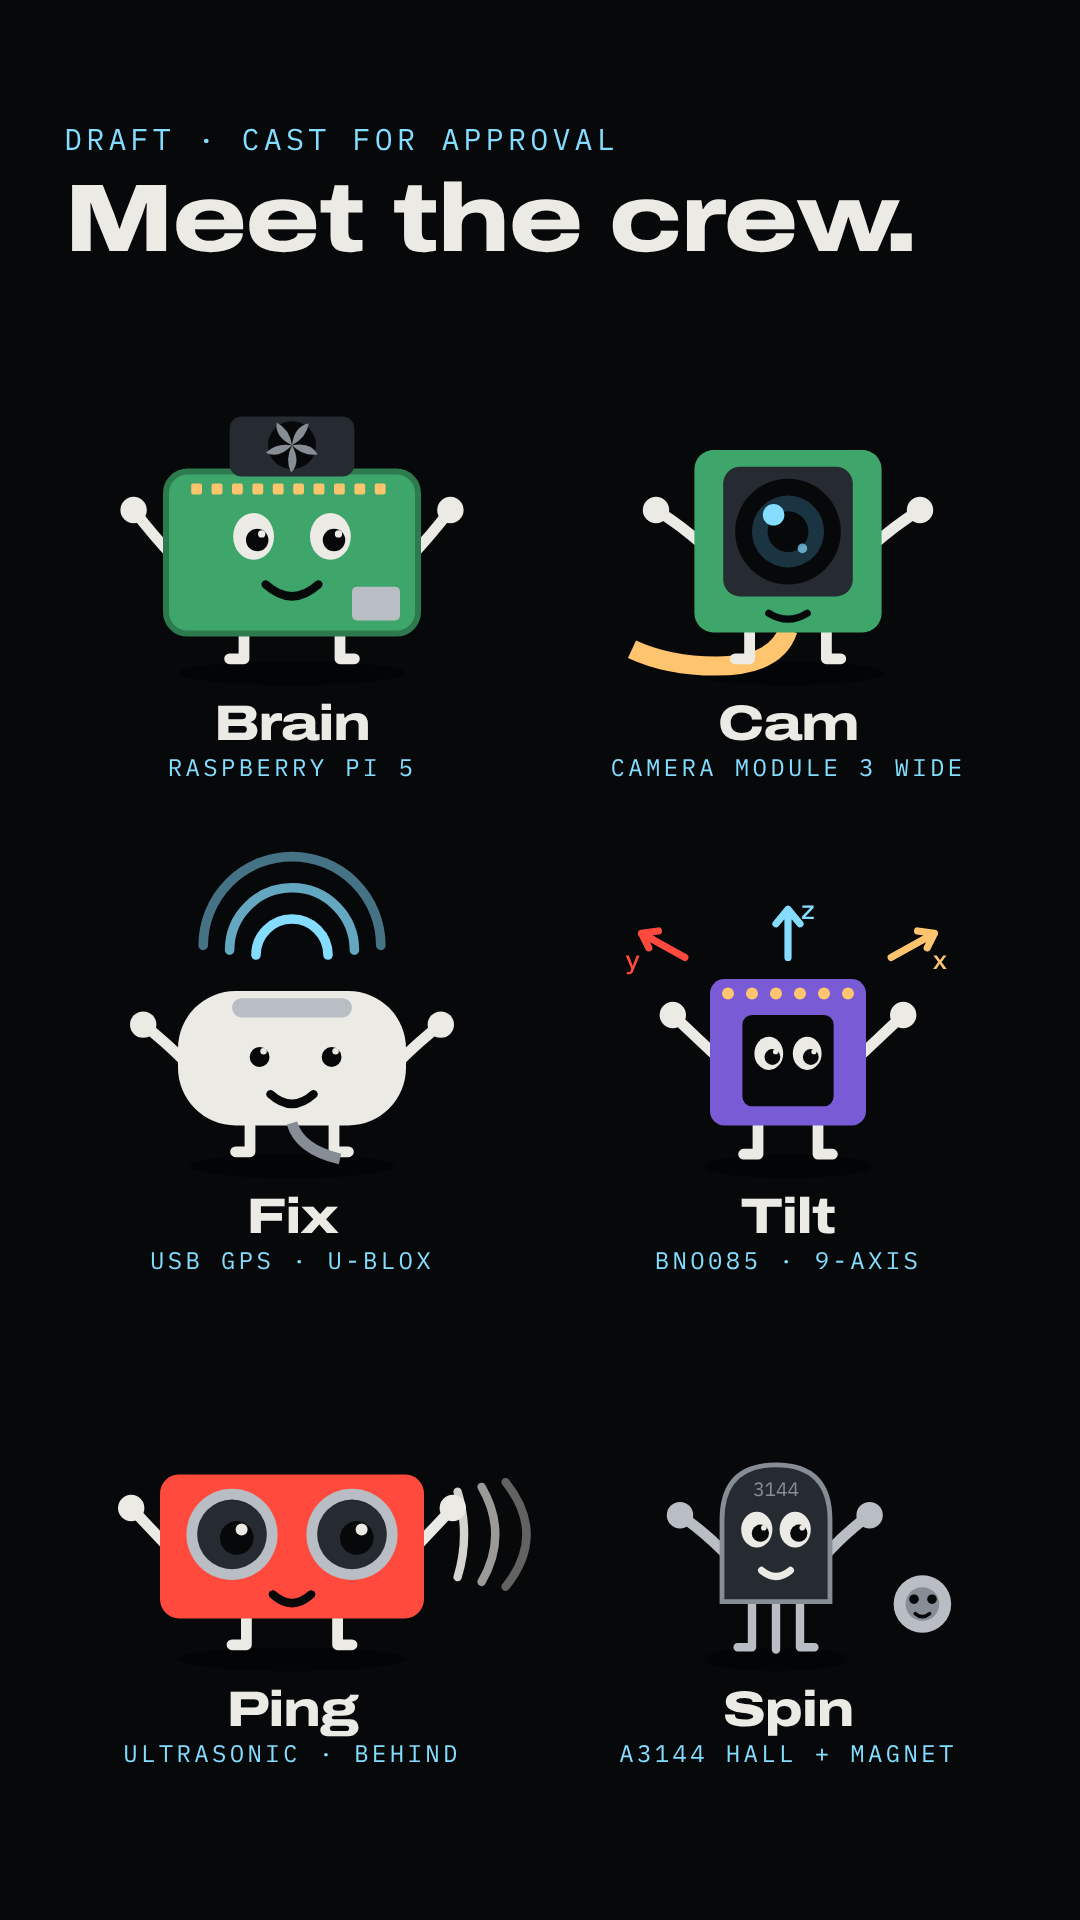
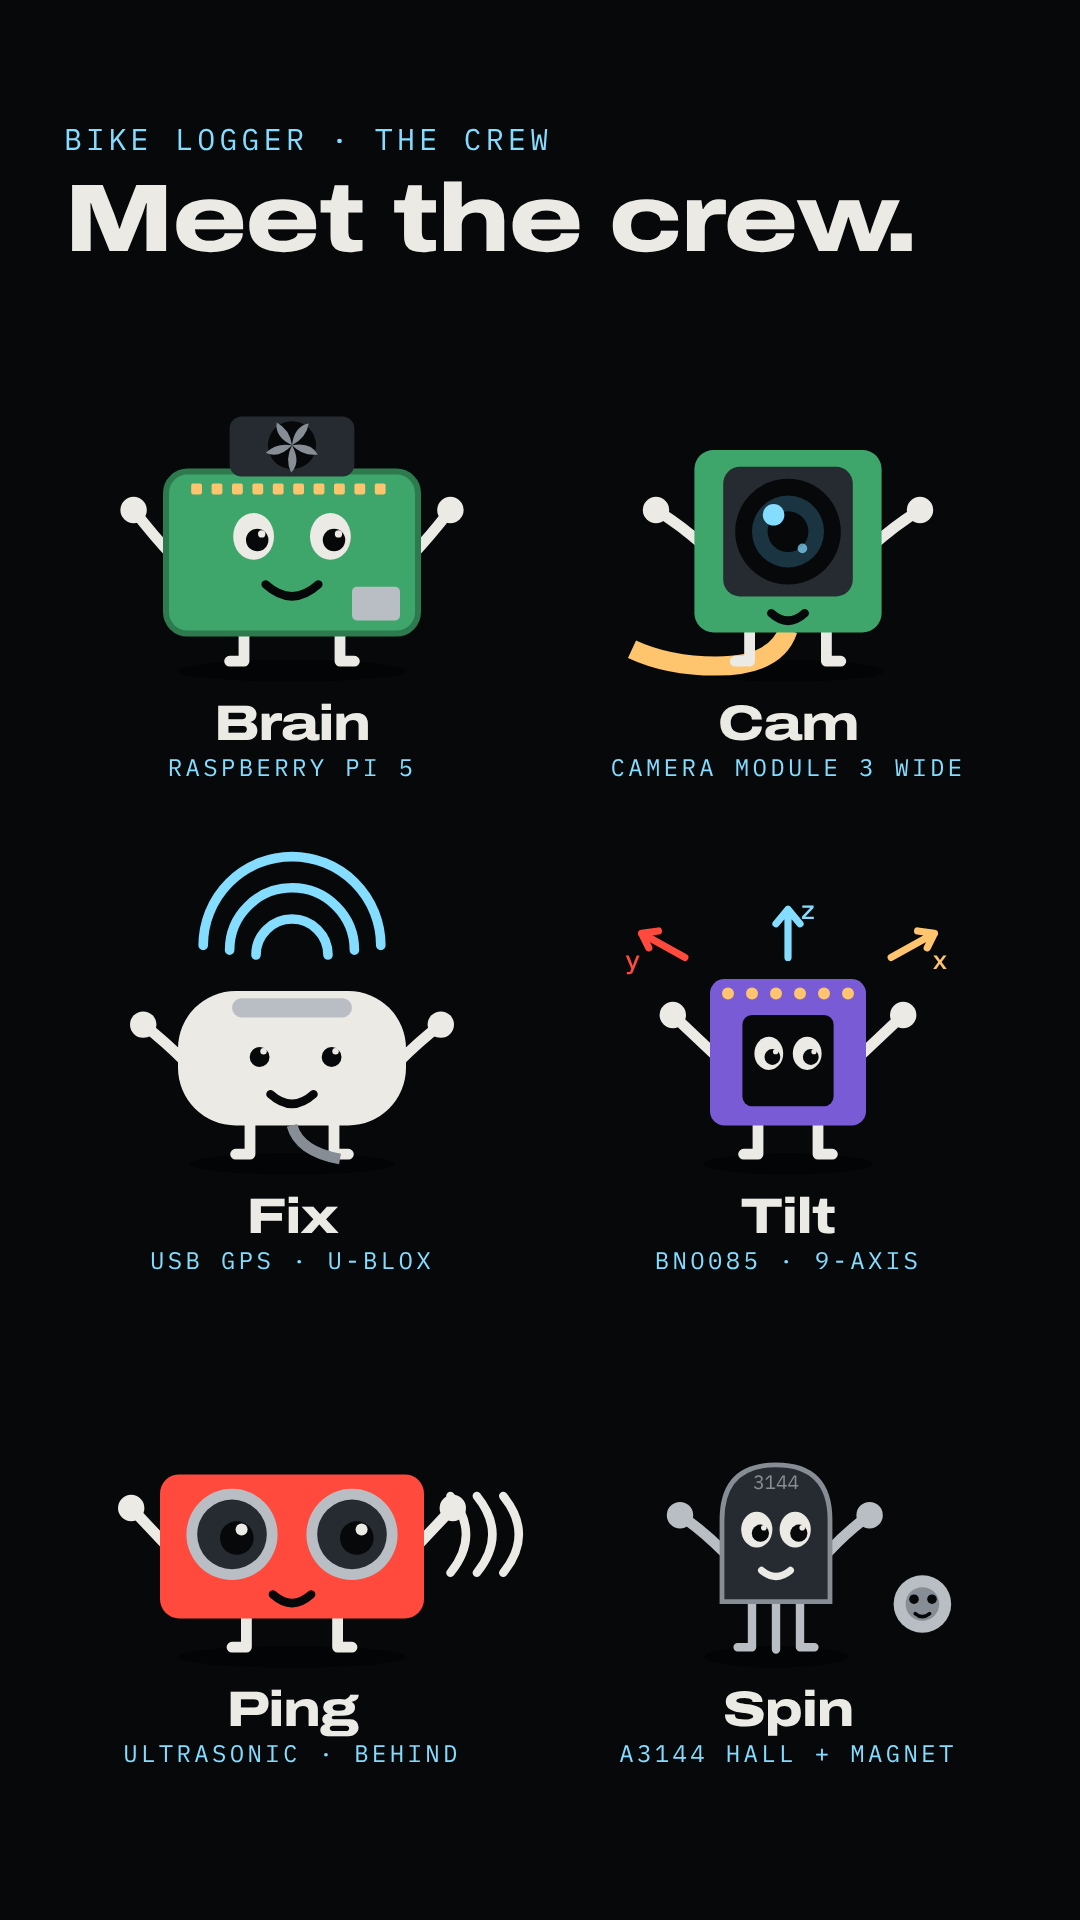
Bike Logger crew: move to brand assets, add adult cartoon style and its cast sheet
Claude-Session: https://claude.ai/code/session_01TJ4oPZSCEeESGFnq2YH8Ck

diff --git a/brands/bike-logger/assets/cartoon/crew.js b/brands/bike-logger/assets/cartoon/crew.js
@@ -1,0 +1,144 @@
+/* Bike Logger crew: the real parts drawn as flat cartoon characters (approved 2026-11-03).
+ *
+ *   <script src="/brands/bike-logger/assets/cartoon/crew.js"></script>
+ *   el.innerHTML = Crew.pi();                    // "fun" style (round eyes, bouncy)
+ *   el.innerHTML = Crew.pi({ style: "adult" });  // grown-up cartoon: ink outlines, half-lidded eyes, muted colours
+ *
+ * Each returns an <svg viewBox="0 0 300 300"> with SvgRig part ids (#body, #eyes, #mouth-closed, #mouth-open,
+ * #arm-l, #arm-r) and extras to animate: pi #fan, cam #lens, gps #arcs (.arc), imu #axes, sonar #pings (.ping),
+ * hall #magnet #pulse, box #lid. Feet stand at y ≈ 278.
+ * Colours: brand tokens, plus PCB green and IMU purple (approved as the only off-palette colours). */
+(function () {
+  const C = { night: "#06080a", ink: "#eceae4", dim: "#868d95", line: "#262b31", lamp: "#ffc46e", signal: "#84dcff", brake: "#ff4a3d", chip: "#b9bec4" };
+  const PAL = {
+    fun:   { green: "#3fa66b", greenEdge: "#2c7a4d", purple: "#7a5bd6", red: C.brake, puck: C.ink, box: "#3a4048", boxEdge: "#4f5660" },
+    adult: { green: "#2f7552", greenEdge: "#1f5238", purple: "#57479a", red: "#d9493d", puck: "#d9d6cc", box: "#30353c", boxEdge: "#454c55" },
+  };
+
+  function kit(style) {
+    const A = style === "adult", P = PAL[A ? "adult" : "fun"];
+    const limbW = A ? 6 : 9, out = A ? `stroke="${C.ink}" stroke-width="3.5" stroke-linejoin="round"` : "";
+    const eye = (x, y, r, lid) => {
+      if (!A) return `<ellipse cx="${x}" cy="${y}" rx="${r}" ry="${r * 1.15}" fill="${C.ink}"/>` +
+        `<circle cx="${x + 3}" cy="${y + 3}" r="${r * 0.55}" fill="${C.night}"/>` +
+        `<circle cx="${x + 3 + r * 0.22}" cy="${y - r * 0.12}" r="${r * 0.18}" fill="${C.ink}"/>`;
+      // Adult: almond eye, small pupil, heavy upper lid (deadpan), brow line.
+      const rx = r * 1.05, ry = r * 0.8;
+      return `<ellipse cx="${x}" cy="${y}" rx="${rx}" ry="${ry}" fill="${C.ink}"/>` +
+        `<circle cx="${x + 2}" cy="${y + ry * 0.3}" r="${r * 0.36}" fill="${C.night}"/>` +
+        `<path d="M${x - rx - 1} ${y + 1} A${rx + 1} ${ry + 1} 0 0 1 ${x + rx + 1} ${y + 1} Z" fill="${lid}"/>` +
+        `<path d="M${x - rx} ${y + 1} H${x + rx}" stroke="${C.night}" stroke-width="3.5" stroke-linecap="round"/>` +
+        `<path d="M${x - rx} ${y - ry - 9} L${x + rx} ${y - ry - 12}" stroke="${C.night}" stroke-width="5" stroke-linecap="round"/>`;
+    };
+    const mouth = (x, y, w, col = C.night) => A
+      ? `<path id="mouth-closed" d="M${x - w * 0.7} ${y + 2} Q${x + w * 0.2} ${y + 5} ${x + w * 0.75} ${y - 3}" stroke="${col}" stroke-width="4.5" fill="none" stroke-linecap="round"/>` +
+        `<ellipse id="mouth-open" cx="${x}" cy="${y + 3}" rx="${w * 0.45}" ry="${w * 0.3}" fill="${col}"/>`
+      : `<path id="mouth-closed" d="M${x - w} ${y} Q${x} ${y + w * 0.9} ${x + w} ${y}" stroke="${col}" stroke-width="7" fill="none" stroke-linecap="round"/>` +
+        `<path id="mouth-open" d="M${x - w} ${y} Q${x} ${y + w * 1.6} ${x + w} ${y} Z" fill="${col}"/>`;
+    const arm = (id, x1, y1, x2, y2, col = C.ink) =>
+      `<g id="${id}"><path d="M${x1} ${y1} Q${(x1 + x2) / 2} ${y1 - (A ? 6 : 18)} ${x2} ${y2}" stroke="${col}" stroke-width="${limbW}" fill="none" stroke-linecap="round"/>` +
+      `<circle cx="${x2}" cy="${y2}" r="${A ? 7 : 11}" fill="${col}"/></g>`;
+    const legs = (x1, x2, y, col = C.ink) =>
+      `<path d="M${x1} ${y} v${A ? 30 : 26} h-${A ? 14 : 12} M${x2} ${y} v${A ? 30 : 26} h${A ? 14 : 12}" stroke="${col}" stroke-width="${limbW}" fill="none" stroke-linecap="round" stroke-linejoin="round"/>`;
+    const shadow = (cx, rx) => `<ellipse cx="${cx}" cy="284" rx="${rx}" ry="9" fill="#000" opacity=".5"/>`;
+    return { A, P, out, eye, mouth, arm, legs, shadow };
+  }
+  const svg = (id, inner) => `<svg class="crew" id="${id}" viewBox="0 0 300 300" overflow="visible">${inner}</svg>`;
+
+  const Crew = {
+    C,
+    // Raspberry Pi 5, active cooler worn as a hat.
+    pi({ id = "pi", style = "fun" } = {}) {
+      const { A, P, out, eye, mouth, arm, legs, shadow } = kit(style);
+      return svg(id, shadow(150, 95) + `<g id="body">` + legs(110, 190, 250) +
+        arm("arm-l", 52, 190, 18, 150) + arm("arm-r", 248, 190, 282, 150) +
+        `<rect x="45" y="118" width="210" height="135" rx="${A ? 10 : 18}" fill="${P.green}" ${out}/>` +
+        (A ? "" : `<rect x="45" y="118" width="210" height="135" rx="18" fill="none" stroke="${P.greenEdge}" stroke-width="5"/>`) +
+        Array.from({ length: 10 }, (_, i) => `<rect x="${66 + i * 17}" y="128" width="9" height="9" rx="1.5" fill="${C.lamp}"/>`).join("") +
+        `<rect x="200" y="214" width="40" height="28" rx="4" fill="${C.chip}"/>` +
+        `<rect x="98" y="72" width="104" height="50" rx="10" fill="${C.line}" ${out}/><circle cx="150" cy="96" r="20" fill="${C.night}"/>` +
+        `<g id="fan">${[0, 72, 144, 216, 288].map(a => `<path d="M150 96 q12 -6 14 -18 q-12 2 -14 18z" fill="${C.dim}" transform="rotate(${a} 150 96)"/>`).join("")}</g>` +
+        `<g id="eyes">${eye(118, 172, 17, P.green)}${eye(182, 172, 17, P.green)}</g>` + mouth(150, 212, 22) + `</g>`);
+    },
+    // Camera Module 3 Wide: the lens is its eye; ribbon cable tail.
+    cam({ id = "cam", style = "fun" } = {}) {
+      const { A, P, out, mouth, arm, legs, shadow } = kit(style);
+      return svg(id, shadow(150, 80) + `<g id="body">` +
+        `<path d="M150 250 q-10 30 -60 30 q-40 0 -70 -14" stroke="${C.lamp}" stroke-width="${A ? 12 : 16}" fill="none"/>` +
+        legs(118, 182, 250) + arm("arm-l", 80, 180, 40, 150) + arm("arm-r", 220, 180, 260, 150) +
+        `<rect x="72" y="100" width="156" height="152" rx="${A ? 8 : 16}" fill="${P.green}" ${out}/>` +
+        `<rect x="96" y="114" width="108" height="108" rx="${A ? 8 : 14}" fill="${C.line}"/>` +
+        `<g id="eyes"><circle cx="150" cy="168" r="44" fill="${C.night}"/><g id="lens"><circle cx="150" cy="168" r="30" fill="#1b3442"/>` +
+        `<circle cx="150" cy="168" r="17" fill="${C.night}"/><circle cx="138" cy="154" r="9" fill="${C.signal}"/><circle cx="162" cy="182" r="4" fill="${C.signal}" opacity=".7"/></g>` +
+        (A ? `<path d="M106 168 A44 44 0 0 1 194 168 Z" fill="${C.line}"/><path d="M106 168 H194" stroke="${C.night}" stroke-width="4"/>` : "") + `</g>` +
+        mouth(150, 236, 14) + `</g>`);
+    },
+    // USB GPS puck (u-blox), antenna up, signal arcs overhead.
+    gps({ id = "gps", style = "fun" } = {}) {
+      const { A, P, out, eye, mouth, arm, legs, shadow } = kit(style);
+      return svg(id, shadow(150, 85) + `<g id="body">` +
+        `<g id="arcs">${[30, 52, 74].map((r, i) => `<path class="arc" d="M${150 - r} ${110 - i * 4} A${r} ${r} 0 0 1 ${150 + r} ${110 - i * 4}" stroke="${C.signal}" stroke-width="${A ? 6 : 8}" fill="none" stroke-linecap="round"/>`).join("")}</g>` +
+        legs(115, 185, 250) + arm("arm-l", 62, 200, 26, 168) + arm("arm-r", 238, 200, 274, 168) +
+        `<rect x="55" y="140" width="190" height="112" rx="${A ? 36 : 48}" fill="${P.puck}" ${A ? `stroke="${C.night}" stroke-width="3.5"` : ""}/>` +
+        `<rect x="100" y="146" width="100" height="16" rx="8" fill="${C.chip}"/>` +
+        `<path d="M150 252 q6 22 40 28" stroke="${C.dim}" stroke-width="${A ? 6 : 9}" fill="none"/>` +
+        `<g id="eyes">${eye(120, 192, 15, P.puck)}${eye(180, 192, 15, P.puck)}</g>` + mouth(150, 226, 18) + `</g>`);
+    },
+    // BNO085 9-axis IMU, x/y/z arrows overhead.
+    imu({ id = "imu", style = "fun" } = {}) {
+      const { A, P, out, eye, mouth, arm, legs, shadow } = kit(style);
+      const ar = (d, col) => `<path d="${d}" stroke="${col}" stroke-width="${A ? 5 : 6}" fill="none" stroke-linecap="round" stroke-linejoin="round"/>`;
+      return svg(id, shadow(150, 70) + `<g id="body">` + legs(125, 175, 250) +
+        arm("arm-l", 92, 196, 54, 160) + arm("arm-r", 208, 196, 246, 160) +
+        `<rect x="85" y="130" width="130" height="122" rx="${A ? 8 : 12}" fill="${P.purple}" ${out}/>` +
+        Array.from({ length: 6 }, (_, i) => `<circle cx="${100 + i * 20}" cy="142" r="5" fill="${C.lamp}"/>`).join("") +
+        `<rect x="112" y="160" width="76" height="76" rx="8" fill="${C.night}"/>` +
+        `<g id="eyes">${eye(134, 192, 12, C.night)}${eye(166, 192, 12, C.night)}</g>` + mouth(150, 220, 13, A ? C.ink : C.night) +
+        `<g id="axes" font-family="IBM Plex Mono, monospace" font-size="22" font-weight="500">` +
+        ar("M150 112 v-40 m-10 12 l10 -12 l10 12", C.signal) + `<text x="160" y="80" fill="${C.signal}">z</text>` +
+        ar("M236 112 l36 -20 m-14 -2 l14 2 l-6 12", C.lamp) + `<text x="270" y="122" fill="${C.lamp}">x</text>` +
+        ar("M64 112 l-36 -20 m14 -2 l-14 2 l6 12", C.brake) + `<text x="14" y="122" fill="${C.brake}">y</text></g></g>`);
+    },
+    // Waterproof ultrasonic: two probe eyes, pings to the right.
+    sonar({ id = "sonar", style = "fun" } = {}) {
+      const { A, P, out, mouth, arm, legs, shadow } = kit(style);
+      return svg(id, shadow(150, 95) + `<g id="body">` + legs(112, 188, 250) +
+        arm("arm-l", 50, 196, 16, 160) + arm("arm-r", 250, 196, 284, 160) +
+        `<rect x="40" y="132" width="220" height="120" rx="${A ? 10 : 16}" fill="${P.red}" ${out}/>` +
+        `<g id="eyes">` + [100, 200].map(x => `<circle cx="${x}" cy="182" r="38" fill="${C.chip}"/><circle cx="${x}" cy="182" r="29" fill="${C.line}"/>` +
+          `<circle cx="${x + 4}" cy="185" r="${A ? 10 : 14}" fill="${C.night}"/><circle cx="${x + 8}" cy="178" r="${A ? 3 : 5}" fill="${C.ink}"/>` +
+          (A ? `<path d="M${x - 29} 182 A29 29 0 0 1 ${x + 29} 182 Z" fill="${C.line}"/><path d="M${x - 29} 182 H${x + 29}" stroke="${C.night}" stroke-width="4"/>` : "")).join("") + `</g>` +
+        `<g id="pings">${[0, 1, 2].map(i => `<path class="ping" d="M282 150 q26 32 0 64" stroke="${C.ink}" stroke-width="${A ? 5 : 7}" fill="none" stroke-linecap="round" transform="translate(${i * 22} 0)"/>`).join("")}</g>` +
+        mouth(150, 232, 16) + `</g>`);
+    },
+    // A3144 Hall sensor on three wire legs, spoke magnet buddy, lamp pulse dot on its head.
+    hall({ id = "hall", style = "fun" } = {}) {
+      const { A, P, eye, arm, shadow } = kit(style);
+      const body = `M95 238 V170 q0 -46 45 -46 q45 0 45 46 V238 Z`;
+      return svg(id, shadow(140, 60) + `<g id="body">` +
+        `<path d="M120 236 v40 h-12 M140 236 v42 M160 236 v40 h12" stroke="${C.chip}" stroke-width="${A ? 5 : 7}" fill="none" stroke-linecap="round" stroke-linejoin="round"/>` +
+        arm("arm-l", 96, 196, 60, 166, C.chip) + arm("arm-r", 184, 196, 218, 166, C.chip) +
+        `<path d="${body}" fill="${C.line}"/><path d="${body}" fill="none" stroke="${A ? C.ink : C.dim}" stroke-width="${A ? 3.5 : 4}"/>` +
+        `<circle id="pulse" cx="140" cy="112" r="10" fill="${C.lamp}" opacity="0"/>` +
+        `<g id="eyes">${eye(124, 178, 13, C.line)}${eye(156, 178, 13, C.line)}</g>` +
+        (A ? `<path id="mouth-closed" d="M130 214 H150" stroke="${C.ink}" stroke-width="4.5" stroke-linecap="round"/>`
+           : `<path id="mouth-closed" d="M128 212 Q140 222 152 212" stroke="${C.ink}" stroke-width="6" fill="none" stroke-linecap="round"/>`) +
+        `<ellipse id="mouth-open" cx="140" cy="215" rx="${A ? 8 : 11}" ry="${A ? 6 : 9}" fill="${C.ink}"/>` +
+        `<text x="140" y="144" text-anchor="middle" font-family="IBM Plex Mono, monospace" font-size="16" fill="${C.dim}">3144</text></g>` +
+        `<g id="magnet"><circle cx="262" cy="240" r="24" fill="${C.chip}"/><circle cx="262" cy="240" r="14" fill="${C.dim}"/>` +
+        (A ? `<path d="M252 236 h7 M265 236 h7 M257 248 h10" stroke="${C.night}" stroke-width="3" stroke-linecap="round"/>`
+           : `<circle cx="255" cy="236" r="4" fill="${C.night}"/><circle cx="270" cy="236" r="4" fill="${C.night}"/><path d="M256 248 q6 5 12 0" stroke="${C.night}" stroke-width="3" fill="none" stroke-linecap="round"/>`) + `</g>`);
+    },
+    // The IP65 box; #lid hinges at its left end (svgOrigin "12 121").
+    box({ id = "box", style = "fun" } = {}) {
+      const { A, P, shadow } = kit(style);
+      return svg(id, shadow(150, 130) +
+        `<g id="body"><rect x="20" y="130" width="260" height="150" rx="14" fill="${P.box}" stroke="${A ? C.ink : P.boxEdge}" stroke-width="${A ? 3.5 : 5}"/>` +
+        `<rect x="34" y="246" width="40" height="16" rx="4" fill="${C.line}"/><rect x="226" y="246" width="40" height="16" rx="4" fill="${C.line}"/>` +
+        `<text x="150" y="226" text-anchor="middle" font-family="IBM Plex Mono, monospace" font-size="22" fill="${C.dim}" letter-spacing="3">IP65</text></g>` +
+        `<g id="lid"><rect x="12" y="104" width="276" height="34" rx="10" fill="${P.boxEdge}" ${A ? `stroke="${C.ink}" stroke-width="3.5"` : ""}/></g>`);
+    },
+  };
+  Crew.ORDER = ["pi", "cam", "gps", "imu", "sonar", "hall"];
+  window.Crew = Crew;
+})();

diff --git a/productions/bike-logger/REEL-006-crew/refs/cast-adult.html b/productions/bike-logger/REEL-006-crew/refs/cast-adult.html
@@ -1,0 +1,26 @@
+<!doctype html>
+<html><head><meta charset="utf-8"><title>Bike Logger crew: cast sheet</title>
+<link rel="stylesheet" href="/core/lib/base.css">
+<link rel="stylesheet" href="/brands/bike-logger/tokens.css">
+<style>
+  #grid { position: absolute; left: 64px; right: 64px; top: 330px; display: grid; grid-template-columns: 1fr 1fr; gap: 40px 40px; }
+  .cell { text-align: center; }
+  .cell svg { width: 360px; height: 360px; }
+  .cell .eyebrow { font-size: 24px; margin-top: 4px; }
+  .cell .name { font-size: 50px; margin-top: 6px; }
+  .crew #mouth-open { opacity: 0; }
+  #head { position: absolute; left: 64px; right: 64px; top: 120px; }
+</style></head><body><div id="stage">
+  <div id="head"><div class="eyebrow">Bike Logger · the crew</div><div class="display hook" style="font-size:96px;margin-top:16px">The crew. Grown up.</div></div>
+  <div id="grid"></div>
+</div>
+<script src="/core/node_modules/gsap/dist/gsap.min.js"></script>
+<script src="/core/lib/runtime.js"></script>
+<script>window.STYLE = "adult";</script><script src="/brands/bike-logger/assets/cartoon/crew.js"></script>
+<script>
+  Studio.setup({ width: 1080, height: 1920, fps: 30, duration: 1 });
+  const cast = [["pi", "Brain", "Raspberry Pi 5"], ["cam", "Cam", "Camera Module 3 Wide"], ["gps", "Fix", "USB GPS · u-blox"],
+                ["imu", "Tilt", "BNO085 · 9-axis"], ["sonar", "Ping", "Ultrasonic · behind"], ["hall", "Spin", "A3144 Hall + magnet"]];
+  document.getElementById("grid").innerHTML = cast.map(([k, n, p]) =>
+    `<div class="cell">${Crew[k]({ style: window.STYLE || "fun" })}<div class="display name">${n}</div><div class="eyebrow">${p}</div></div>`).join("");
+</script></body></html>

diff --git a/productions/bike-logger/REEL-006-crew/refs/cast.html b/productions/bike-logger/REEL-006-crew/refs/cast.html
@@ -11,16 +11,16 @@
   .crew #mouth-open { opacity: 0; }
   #head { position: absolute; left: 64px; right: 64px; top: 120px; }
 </style></head><body><div id="stage">
-  <div id="head"><div class="eyebrow">Draft · cast for approval</div><div class="display hook" style="font-size:96px;margin-top:16px">Meet the crew.</div></div>
+  <div id="head"><div class="eyebrow">Bike Logger · the crew</div><div class="display hook" style="font-size:96px;margin-top:16px">Meet the crew.</div></div>
   <div id="grid"></div>
 </div>
 <script src="/core/node_modules/gsap/dist/gsap.min.js"></script>
 <script src="/core/lib/runtime.js"></script>
-<script src="crew.js"></script>
+<script src="/brands/bike-logger/assets/cartoon/crew.js"></script>
 <script>
   Studio.setup({ width: 1080, height: 1920, fps: 30, duration: 1 });
   const cast = [["pi", "Brain", "Raspberry Pi 5"], ["cam", "Cam", "Camera Module 3 Wide"], ["gps", "Fix", "USB GPS · u-blox"],
                 ["imu", "Tilt", "BNO085 · 9-axis"], ["sonar", "Ping", "Ultrasonic · behind"], ["hall", "Spin", "A3144 Hall + magnet"]];
   document.getElementById("grid").innerHTML = cast.map(([k, n, p]) =>
-    `<div class="cell">${Crew[k]()}<div class="display name">${n}</div><div class="eyebrow">${p}</div></div>`).join("");
+    `<div class="cell">${Crew[k]({ style: window.STYLE || "fun" })}<div class="display name">${n}</div><div class="eyebrow">${p}</div></div>`).join("");
 </script></body></html>
